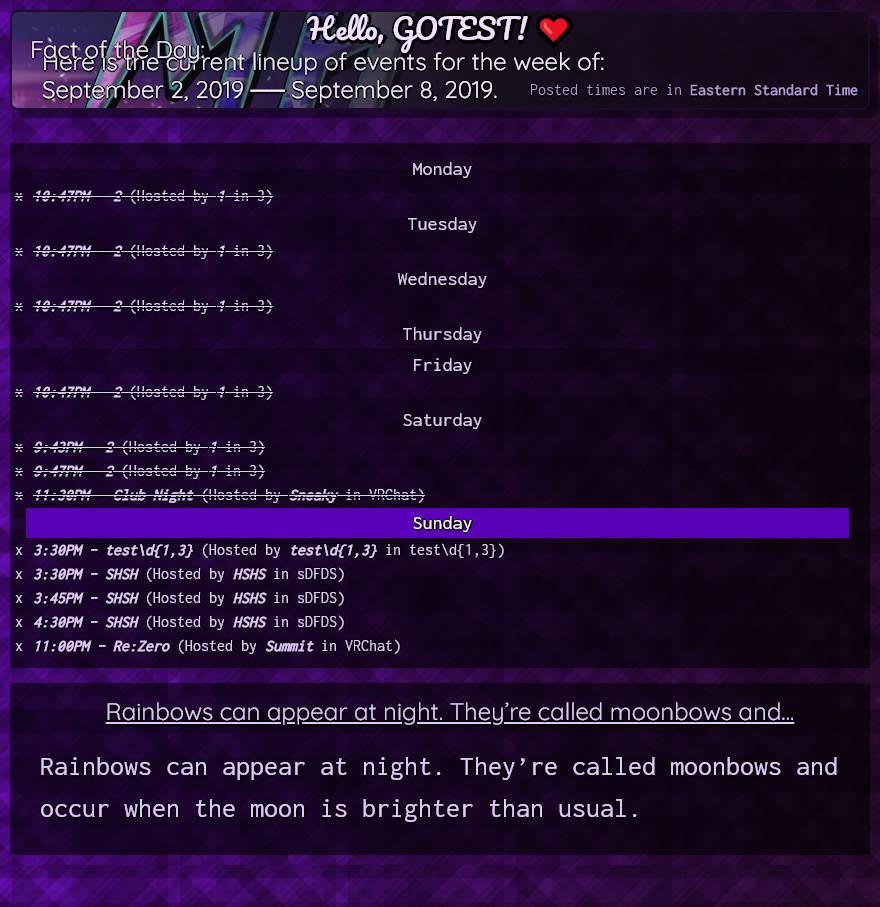
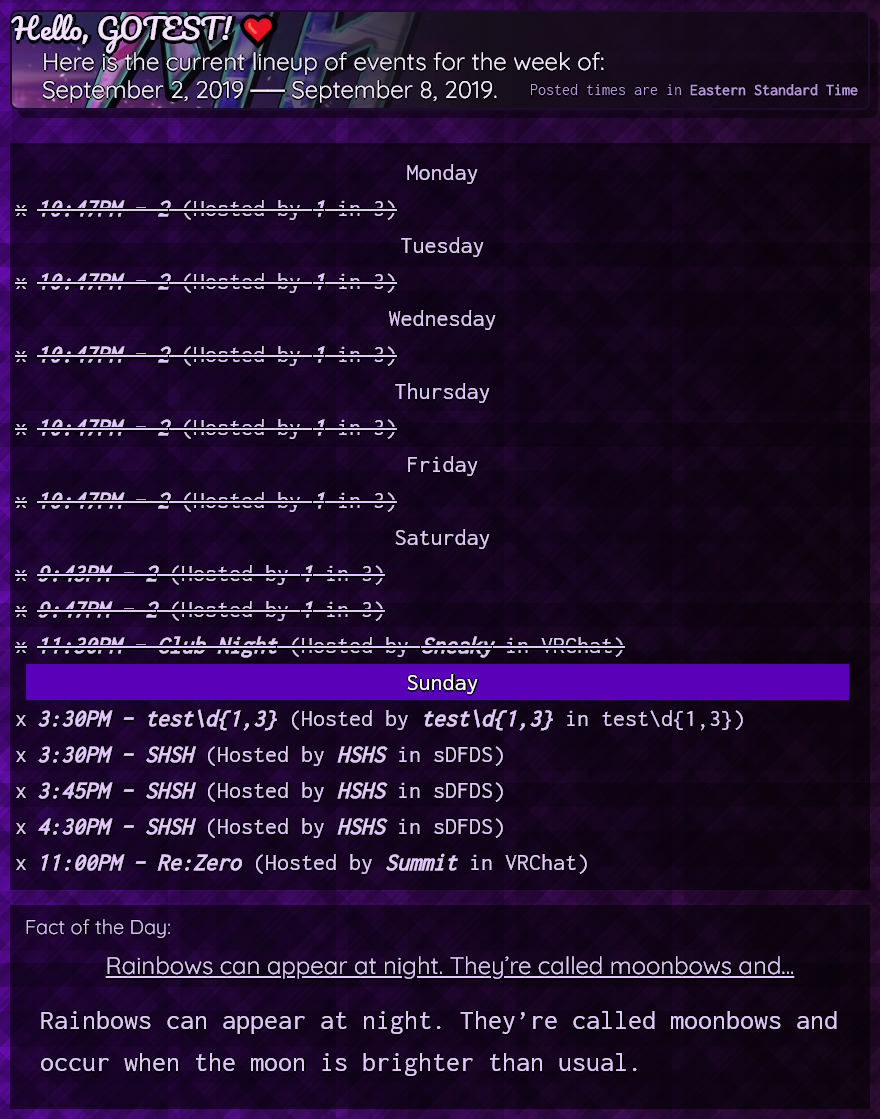
Update CSS and screenshot strategy

diff --git a/web/schedule.css b/web/schedule.css
@@ -1,77 +1,147 @@
 /*schedule css - Hippuu 9/3/19  #2e2a30 #221f24*/
 
 body {
-  background:
-    repeating-linear-gradient(0deg, rgba(0, 0, 0, 0.11) 0px,
-      rgba(0, 0, 0, 0.11) 12px, rgba(1, 1, 1, 0.16) 12px,
-      rgba(1, 1, 1, 0.16) 24px, rgba(0, 0, 0, 0.14) 24px,
-      rgba(0, 0, 0, 0.14) 36px, rgba(0, 0, 0, 0.23) 36px,
-      rgba(0, 0, 0, 0.23) 48px, rgba(0, 0, 0, 0.12) 48px,
-      rgba(0, 0, 0, 0.12) 60px, rgba(1, 1, 1, 0.07) 60px,
-      rgba(1, 1, 1, 0.07) 72px, rgba(0, 0, 0, 0.21) 72px,
-      rgba(0, 0, 0, 0.21) 84px, rgba(0, 0, 0, 0.24) 84px,
-      rgba(0, 0, 0, 0.24) 96px, rgba(1, 1, 1, 0.23) 96px,
-      rgba(1, 1, 1, 0.23) 108px, rgba(1, 1, 1, 0.07) 108px,
-      rgba(1, 1, 1, 0.07) 120px, rgba(0, 0, 0, 0.01) 120px,
-      rgba(0, 0, 0, 0.01) 132px, rgba(1, 1, 1, 0.22) 132px,
-      rgba(1, 1, 1, 0.22) 144px, rgba(1, 1, 1, 0.24) 144px,
-      rgba(1, 1, 1, 0.24) 156px, rgba(0, 0, 0, 0) 156px,
-      rgba(0, 0, 0, 0) 168px, rgba(0, 0, 0, 0.12) 168px,
-      rgba(0, 0, 0, 0.12) 180px),
-    repeating-linear-gradient(90deg, rgba(1, 1, 1, 0.01) 0px,
-      rgba(1, 1, 1, 0.01) 12px, rgba(1, 1, 1, 0.15) 12px,
-      rgba(1, 1, 1, 0.15) 24px, rgba(0, 0, 0, 0.09) 24px,
-      rgba(0, 0, 0, 0.09) 36px, rgba(0, 0, 0, 0.02) 36px,
-      rgba(0, 0, 0, 0.02) 48px, rgba(0, 0, 0, 0.1) 48px,
-      rgba(0, 0, 0, 0.1) 60px, rgba(1, 1, 1, 0.07) 60px,
-      rgba(1, 1, 1, 0.07) 72px, rgba(1, 1, 1, 0.15) 72px,
-      rgba(1, 1, 1, 0.15) 84px, rgba(0, 0, 0, 0.18) 84px,
-      rgba(0, 0, 0, 0.18) 96px, rgba(1, 1, 1, 0.15) 96px,
-      rgba(1, 1, 1, 0.15) 108px, rgba(1, 1, 1, 0.09) 108px,
-      rgba(1, 1, 1, 0.09) 120px, rgba(1, 1, 1, 0.07) 120px,
-      rgba(1, 1, 1, 0.07) 132px, rgba(1, 1, 1, 0.05) 132px,
-      rgba(1, 1, 1, 0.05) 144px, rgba(0, 0, 0, 0.1) 144px,
-      rgba(0, 0, 0, 0.1) 156px, rgba(1, 1, 1, 0.18) 156px,
-      rgba(1, 1, 1, 0.18) 168px),
-    repeating-linear-gradient(45deg, rgba(0, 0, 0, 0.24) 0px,
-      rgba(0, 0, 0, 0.24) 16px, rgba(1, 1, 1, 0.06) 16px,
-      rgba(1, 1, 1, 0.06) 32px, rgba(0, 0, 0, 0.16) 32px,
-      rgba(0, 0, 0, 0.16) 48px, rgba(1, 1, 1, 0) 48px,
-      rgba(1, 1, 1, 0) 64px, rgba(1, 1, 1, 0.12) 64px,
-      rgba(1, 1, 1, 0.12) 80px, rgba(1, 1, 1, 0.22) 80px,
-      rgba(1, 1, 1, 0.22) 96px, rgba(0, 0, 0, 0.24) 96px,
-      rgba(0, 0, 0, 0.24) 112px, rgba(0, 0, 0, 0.25) 112px,
-      rgba(0, 0, 0, 0.25) 128px, rgba(1, 1, 1, 0.12) 128px,
-      rgba(1, 1, 1, 0.12) 144px, rgba(0, 0, 0, 0.18) 144px,
-      rgba(0, 0, 0, 0.18) 160px, rgba(1, 1, 1, 0.03) 160px,
-      rgba(1, 1, 1, 0.03) 176px, rgba(1, 1, 1, 0.1) 176px,
-      rgba(1, 1, 1, 0.1) 192px),
-    repeating-linear-gradient(135deg, rgba(1, 1, 1, 0.18) 0px,
-      rgba(1, 1, 1, 0.18) 3px, rgba(0, 0, 0, 0.09) 3px,
-      rgba(0, 0, 0, 0.09) 6px, rgba(0, 0, 0, 0.08) 6px,
-      rgba(0, 0, 0, 0.08) 9px, rgba(1, 1, 1, 0.05) 9px,
-      rgba(1, 1, 1, 0.05) 12px, rgba(0, 0, 0, 0.01) 12px,
-      rgba(0, 0, 0, 0.01) 15px, rgba(1, 1, 1, 0.12) 15px,
-      rgba(1, 1, 1, 0.12) 18px, rgba(0, 0, 0, 0.05) 18px,
-      rgba(0, 0, 0, 0.05) 21px, rgba(1, 1, 1, 0.16) 21px,
-      rgba(1, 1, 1, 0.16) 24px, rgba(1, 1, 1, 0.07) 24px,
-      rgba(1, 1, 1, 0.07) 27px, rgba(1, 1, 1, 0.23) 27px,
-      rgba(1, 1, 1, 0.23) 30px, rgba(0, 0, 0, 0.2) 30px,
-      rgba(0, 0, 0, 0.2) 33px, rgba(0, 0, 0, 0.18) 33px,
-      rgba(0, 0, 0, 0.18) 36px, rgba(1, 1, 1, 0.12) 36px,
-      rgba(1, 1, 1, 0.12) 39px, rgba(1, 1, 1, 0.13) 39px,
-      rgba(1, 1, 1, 0.13) 42px, rgba(1, 1, 1, 0.2) 42px,
-      rgba(1, 1, 1, 0.2) 45px, rgba(1, 1, 1, 0.18) 45px,
-      rgba(1, 1, 1, 0.18) 48px, rgba(0, 0, 0, 0.2) 48px,
-      rgba(0, 0, 0, 0.2) 51px, rgba(1, 1, 1, 0) 51px,
-      rgba(1, 1, 1, 0) 54px, rgba(0, 0, 0, 0.03) 54px,
-      rgba(0, 0, 0, 0.03) 57px, rgba(1, 1, 1, 0.06) 57px,
-      rgba(1, 1, 1, 0.06) 60px, rgba(1, 1, 1, 0) 60px,
-      rgba(1, 1, 1, 0) 63px, rgba(0, 0, 0, 0.1) 63px,
-      rgba(0, 0, 0, 0.1) 66px, rgba(1, 1, 1, 0.19) 66px,
-      rgba(1, 1, 1, 0.19) 69px),
-    linear-gradient(90deg, rgb(113, 16, 192),
-      rgb(59, 18, 66));
+  background: repeating-linear-gradient(
+      0deg,
+      rgba(0, 0, 0, 0.11) 0px,
+      rgba(0, 0, 0, 0.11) 12px,
+      rgba(1, 1, 1, 0.16) 12px,
+      rgba(1, 1, 1, 0.16) 24px,
+      rgba(0, 0, 0, 0.14) 24px,
+      rgba(0, 0, 0, 0.14) 36px,
+      rgba(0, 0, 0, 0.23) 36px,
+      rgba(0, 0, 0, 0.23) 48px,
+      rgba(0, 0, 0, 0.12) 48px,
+      rgba(0, 0, 0, 0.12) 60px,
+      rgba(1, 1, 1, 0.07) 60px,
+      rgba(1, 1, 1, 0.07) 72px,
+      rgba(0, 0, 0, 0.21) 72px,
+      rgba(0, 0, 0, 0.21) 84px,
+      rgba(0, 0, 0, 0.24) 84px,
+      rgba(0, 0, 0, 0.24) 96px,
+      rgba(1, 1, 1, 0.23) 96px,
+      rgba(1, 1, 1, 0.23) 108px,
+      rgba(1, 1, 1, 0.07) 108px,
+      rgba(1, 1, 1, 0.07) 120px,
+      rgba(0, 0, 0, 0.01) 120px,
+      rgba(0, 0, 0, 0.01) 132px,
+      rgba(1, 1, 1, 0.22) 132px,
+      rgba(1, 1, 1, 0.22) 144px,
+      rgba(1, 1, 1, 0.24) 144px,
+      rgba(1, 1, 1, 0.24) 156px,
+      rgba(0, 0, 0, 0) 156px,
+      rgba(0, 0, 0, 0) 168px,
+      rgba(0, 0, 0, 0.12) 168px,
+      rgba(0, 0, 0, 0.12) 180px
+    ),
+    repeating-linear-gradient(
+      90deg,
+      rgba(1, 1, 1, 0.01) 0px,
+      rgba(1, 1, 1, 0.01) 12px,
+      rgba(1, 1, 1, 0.15) 12px,
+      rgba(1, 1, 1, 0.15) 24px,
+      rgba(0, 0, 0, 0.09) 24px,
+      rgba(0, 0, 0, 0.09) 36px,
+      rgba(0, 0, 0, 0.02) 36px,
+      rgba(0, 0, 0, 0.02) 48px,
+      rgba(0, 0, 0, 0.1) 48px,
+      rgba(0, 0, 0, 0.1) 60px,
+      rgba(1, 1, 1, 0.07) 60px,
+      rgba(1, 1, 1, 0.07) 72px,
+      rgba(1, 1, 1, 0.15) 72px,
+      rgba(1, 1, 1, 0.15) 84px,
+      rgba(0, 0, 0, 0.18) 84px,
+      rgba(0, 0, 0, 0.18) 96px,
+      rgba(1, 1, 1, 0.15) 96px,
+      rgba(1, 1, 1, 0.15) 108px,
+      rgba(1, 1, 1, 0.09) 108px,
+      rgba(1, 1, 1, 0.09) 120px,
+      rgba(1, 1, 1, 0.07) 120px,
+      rgba(1, 1, 1, 0.07) 132px,
+      rgba(1, 1, 1, 0.05) 132px,
+      rgba(1, 1, 1, 0.05) 144px,
+      rgba(0, 0, 0, 0.1) 144px,
+      rgba(0, 0, 0, 0.1) 156px,
+      rgba(1, 1, 1, 0.18) 156px,
+      rgba(1, 1, 1, 0.18) 168px
+    ),
+    repeating-linear-gradient(
+      45deg,
+      rgba(0, 0, 0, 0.24) 0px,
+      rgba(0, 0, 0, 0.24) 16px,
+      rgba(1, 1, 1, 0.06) 16px,
+      rgba(1, 1, 1, 0.06) 32px,
+      rgba(0, 0, 0, 0.16) 32px,
+      rgba(0, 0, 0, 0.16) 48px,
+      rgba(1, 1, 1, 0) 48px,
+      rgba(1, 1, 1, 0) 64px,
+      rgba(1, 1, 1, 0.12) 64px,
+      rgba(1, 1, 1, 0.12) 80px,
+      rgba(1, 1, 1, 0.22) 80px,
+      rgba(1, 1, 1, 0.22) 96px,
+      rgba(0, 0, 0, 0.24) 96px,
+      rgba(0, 0, 0, 0.24) 112px,
+      rgba(0, 0, 0, 0.25) 112px,
+      rgba(0, 0, 0, 0.25) 128px,
+      rgba(1, 1, 1, 0.12) 128px,
+      rgba(1, 1, 1, 0.12) 144px,
+      rgba(0, 0, 0, 0.18) 144px,
+      rgba(0, 0, 0, 0.18) 160px,
+      rgba(1, 1, 1, 0.03) 160px,
+      rgba(1, 1, 1, 0.03) 176px,
+      rgba(1, 1, 1, 0.1) 176px,
+      rgba(1, 1, 1, 0.1) 192px
+    ),
+    repeating-linear-gradient(
+      135deg,
+      rgba(1, 1, 1, 0.18) 0px,
+      rgba(1, 1, 1, 0.18) 3px,
+      rgba(0, 0, 0, 0.09) 3px,
+      rgba(0, 0, 0, 0.09) 6px,
+      rgba(0, 0, 0, 0.08) 6px,
+      rgba(0, 0, 0, 0.08) 9px,
+      rgba(1, 1, 1, 0.05) 9px,
+      rgba(1, 1, 1, 0.05) 12px,
+      rgba(0, 0, 0, 0.01) 12px,
+      rgba(0, 0, 0, 0.01) 15px,
+      rgba(1, 1, 1, 0.12) 15px,
+      rgba(1, 1, 1, 0.12) 18px,
+      rgba(0, 0, 0, 0.05) 18px,
+      rgba(0, 0, 0, 0.05) 21px,
+      rgba(1, 1, 1, 0.16) 21px,
+      rgba(1, 1, 1, 0.16) 24px,
+      rgba(1, 1, 1, 0.07) 24px,
+      rgba(1, 1, 1, 0.07) 27px,
+      rgba(1, 1, 1, 0.23) 27px,
+      rgba(1, 1, 1, 0.23) 30px,
+      rgba(0, 0, 0, 0.2) 30px,
+      rgba(0, 0, 0, 0.2) 33px,
+      rgba(0, 0, 0, 0.18) 33px,
+      rgba(0, 0, 0, 0.18) 36px,
+      rgba(1, 1, 1, 0.12) 36px,
+      rgba(1, 1, 1, 0.12) 39px,
+      rgba(1, 1, 1, 0.13) 39px,
+      rgba(1, 1, 1, 0.13) 42px,
+      rgba(1, 1, 1, 0.2) 42px,
+      rgba(1, 1, 1, 0.2) 45px,
+      rgba(1, 1, 1, 0.18) 45px,
+      rgba(1, 1, 1, 0.18) 48px,
+      rgba(0, 0, 0, 0.2) 48px,
+      rgba(0, 0, 0, 0.2) 51px,
+      rgba(1, 1, 1, 0) 51px,
+      rgba(1, 1, 1, 0) 54px,
+      rgba(0, 0, 0, 0.03) 54px,
+      rgba(0, 0, 0, 0.03) 57px,
+      rgba(1, 1, 1, 0.06) 57px,
+      rgba(1, 1, 1, 0.06) 60px,
+      rgba(1, 1, 1, 0) 60px,
+      rgba(1, 1, 1, 0) 63px,
+      rgba(0, 0, 0, 0.1) 63px,
+      rgba(0, 0, 0, 0.1) 66px,
+      rgba(1, 1, 1, 0.19) 66px,
+      rgba(1, 1, 1, 0.19) 69px
+    ),
+    linear-gradient(90deg, rgb(113, 16, 192), rgb(59, 18, 66));
 }
 
 .past-event {
@@ -120,7 +190,6 @@ h3 {
   /* position: absolute;
   top: 1px;
   left: 10px; */
-  text-align: center;
   color: #f1e1ff;
   text-shadow: -2px 0 black, 0 4px black, 4px 0 black, 0 -2px black;
 }
@@ -171,7 +240,7 @@ h6 {
   background-color: transparent;
   list-style: none;
   text-align: center;
-  font-size: 16px;
+  font-size: 24px;
   padding: 0px 0px 0px 10px;
 }
 
@@ -180,22 +249,18 @@ h6 {
 }
 
 .list-group li.event::before {
-  content: 'x';
+  content: "x";
   margin-left: -20px;
   margin-right: 10px;
 }
 
 .list-group li.day {
   /* border: #b794db solid .2px; */
-  font-size: 20px;
+  font-size: 24px;
 }
 
 .list-group li.active {
   align-content: center;
   background-color: #5900b8;
   border-color: #160f1b;
-}
-
-h4.factOTD {
-  text-align: center;
 }

diff --git a/web/schedule-parsed.html b/web/schedule-parsed.html
@@ -71,6 +71,11 @@
                 <li class="day list-group-item ">Thursday</li>
                 <ul class="Thursday-events list-group">
                     
+                    
+                    <!--Strike thru style here-->
+                    <li class="past-event event"><strong><em>10:47PM - 2</strong></em> (Hosted  by <strong><em>1</em></strong> in 3)</li>
+                    
+                    
                 </ul>
                 
                 <li class="day list-group-item ">Friday</li>
@@ -130,8 +135,8 @@
                 
 
         </div>
-        <h4 class="factOTD">Fact of the Day:</h4>
         <div id="facts">
+            <h5>Fact of the Day:</h5>
             <p class="factTitle">Rainbows can appear at night. They’re called moonbows and...</p>
             <p>Rainbows can appear at night. They’re called moonbows and occur when the moon is brighter than usual.</p>
         </div>

diff --git a/web/schedule-template.html b/web/schedule-template.html
@@ -52,8 +52,8 @@
                 {{end}}
 
         </div>
-        <h4 class="factOTD">Fact of the Day:</h4>
         <div id="facts">
+            <h5>Fact of the Day:</h5>
             <p class="factTitle">{{.FactTitle}}</p>
             <p>{{.Fact}}</p>
         </div>

diff --git a/chrome/Screenshot.go b/chrome/Screenshot.go
@@ -31,14 +31,14 @@ func TakeScreenshot(w int64, h int64) {
 
 	// capture entire browser viewport, returning png with quality=90
 	var buf []byte
-	// if err := chromedp.Run(ctx, elementScreenshot("file:///"+path+"/web/schedule-parsed.html",
-	// 	"#main", &buf)); err != nil {
-	// 	log.Fatal(err)
-	// }
-	if err := chromedp.Run(ctx, elementScreenshot("file:///"+path+"/web/schedule-parsed.html",
-		"#main", &buf, w, h)); err != nil {
+	if err := chromedp.Run(ctx, fullScreenshot("file:///"+path+"/web/schedule-parsed.html",
+		120, &buf, w, h)); err != nil {
 		log.Fatal(err)
 	}
+	// if err := chromedp.Run(ctx, elementScreenshot("file:///"+path+"/web/schedule-parsed.html",
+	// 	"#main", &buf, w, h)); err != nil {
+	// 	log.Fatal(err)
+	// }
 	if err := ioutil.WriteFile("schedule.png", buf, 0644); err != nil {
 		log.Fatal(err)
 	}
@@ -71,7 +71,7 @@ func elementScreenshot(urlstr, sel string, res *[]byte, w int64, h int64) chrome
 // Liberally copied from puppeteer's source.
 //
 // Note: this will override the viewport emulation settings.
-func fullScreenshot(urlstr string, quality int64, res *[]byte) chromedp.Tasks {
+func fullScreenshot(urlstr string, quality int64, res *[]byte, w int64, h int64) chromedp.Tasks {
 	return chromedp.Tasks{
 		chromedp.Navigate(urlstr),
 		chromedp.ActionFunc(func(ctx context.Context) error {
@@ -82,7 +82,7 @@ func fullScreenshot(urlstr string, quality int64, res *[]byte) chromedp.Tasks {
 			}
 
 			// width, height := int64(math.Ceil(contentSize.Width)), int64(math.Ceil(contentSize.Height))
-			width, height := int64(1600), int64(900)
+			width, height := w, h
 
 			// force viewport emulation
 			err = emulation.SetDeviceMetricsOverride(width, height, 1, false).
